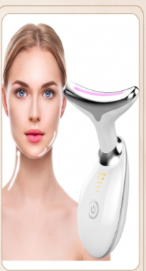
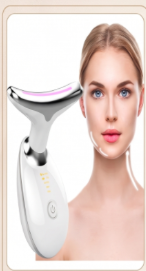
Fix VAURA header size and flip images

diff --git a/hayfo/styles.css b/hayfo/styles.css
@@ -30,7 +30,7 @@ button { color: inherit; }
 .wordmark { display: inline-flex; align-items: center; gap: 9px; font-size: 23px; font-weight: 700; letter-spacing: -.08em; }
 .wordmark-mark { display: grid; place-items: center; width: 32px; height: 32px; border-radius: 50%; background: var(--peach); font-size: 17px; }
 .wordmark-period { color: #b7785c; }
-.wordmark-logo { height: 62px; width: auto; display: block; object-fit: contain; }
+.wordmark-logo { height: 42px; width: auto; display: block; object-fit: contain; }
 .main-nav { display: flex; gap: 35px; margin-inline-start: 47px; font-size: 12px; color: #5b5953; }
 .main-nav a, .footer-links a { transition: color .2s ease; }
 .main-nav a:hover, .footer-links a:hover { color: #b7785c; }
@@ -145,7 +145,7 @@ h1 em, h2 em { font-family: var(--serif); font-weight: 400; color: #b77b60; }
 .newsletter-form button span { margin-right: 8px; font-size: 15px; }
 .site-footer { min-height: 150px; padding: 34px 9%; display: grid; grid-template-columns: 1fr 1fr 1fr auto; align-items: center; gap: 20px; background: var(--ink); color: #f8f5ef; }
 .footer-brand { font-size: 20px; }
-.footer-brand .wordmark-logo { height: 74px; }
+.footer-brand .wordmark-logo { height: 38px; }
 .footer-brand .wordmark-mark { color: var(--ink); width: 29px; height: 29px; }
 .footer-brand .wordmark-period { color: #d2a48b; }
 .site-footer > p { font-size: 10px; color: #bcb8af; }
@@ -222,8 +222,8 @@ h1 em, h2 em { font-family: var(--serif); font-weight: 400; color: #b77b60; }
   .announcement { font-size: 9px; gap: 8px; }
   .site-header { height: 65px; }
   .wordmark { font-size: 20px; }
-  .wordmark-logo { height: 48px; }
-  .footer-brand .wordmark-logo { height: 58px; }
+  .wordmark-logo { height: 36px; }
+  .footer-brand .wordmark-logo { height: 38px; }
   .wordmark-mark { width: 29px; height: 29px; }
   .main-nav { display: none; }
   .header-actions { gap: 9px; }
